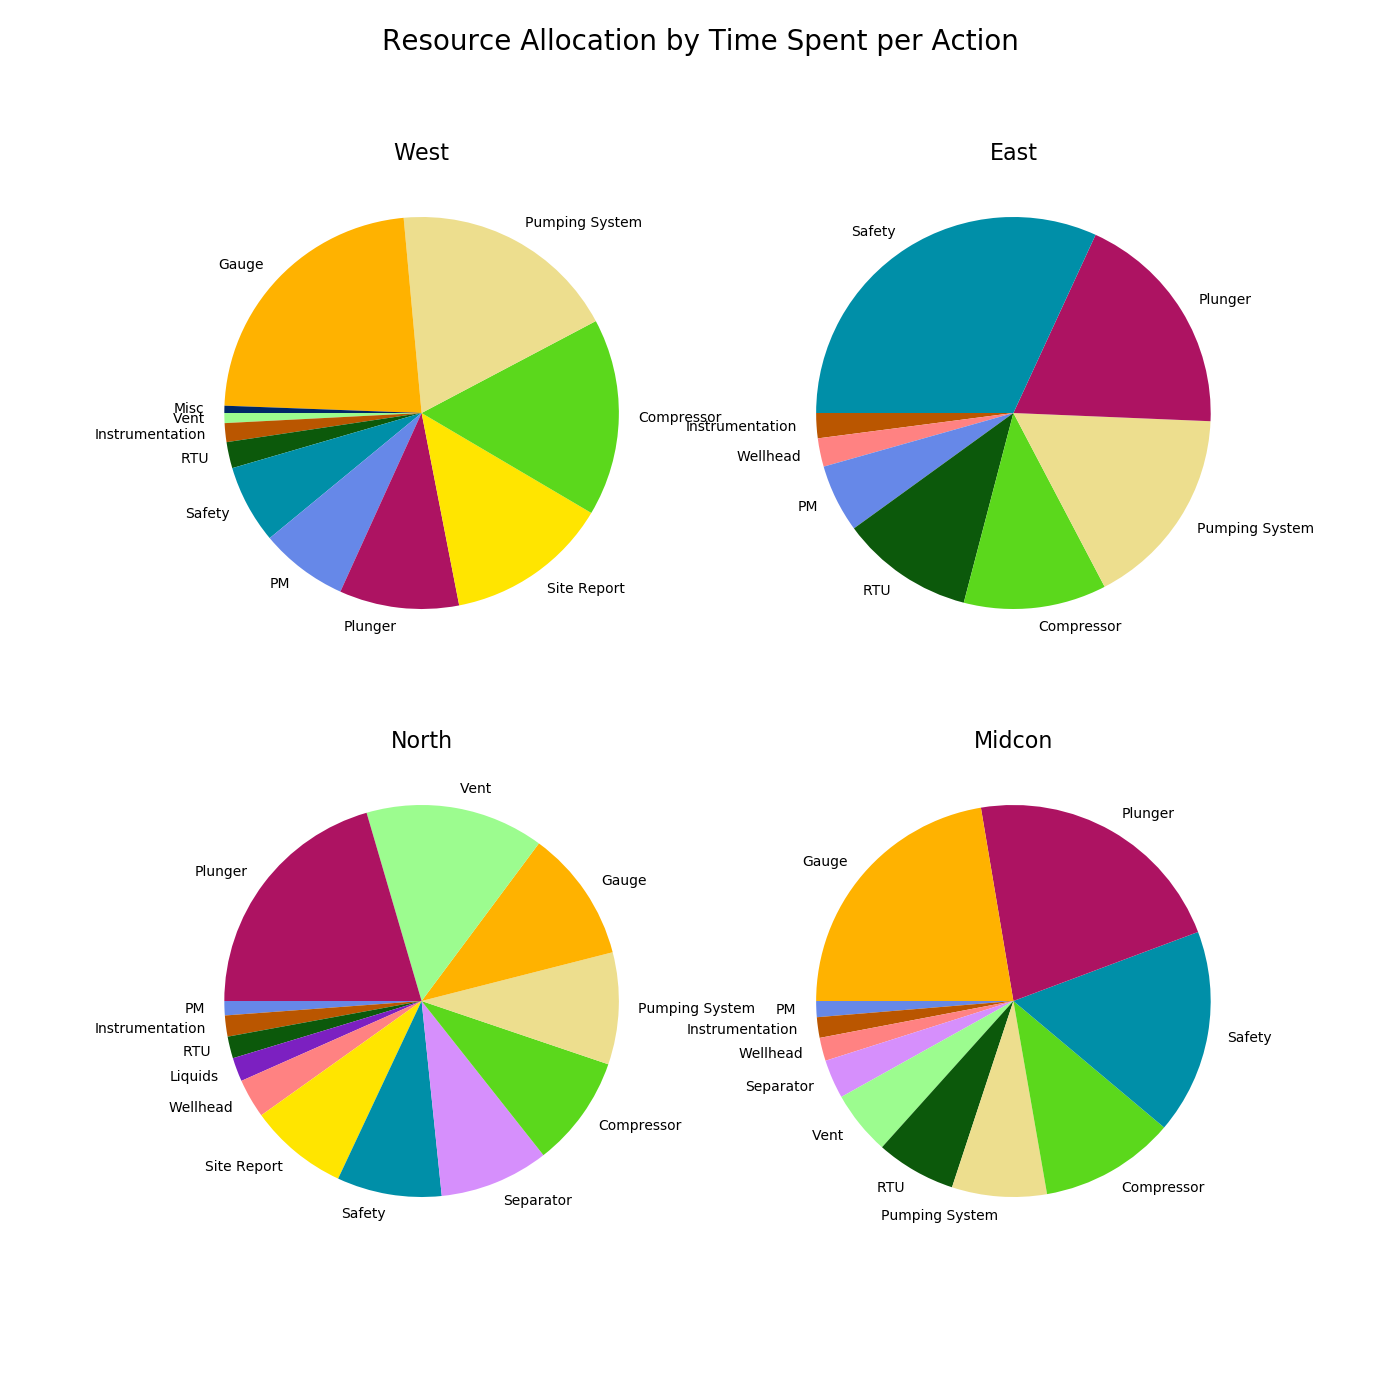
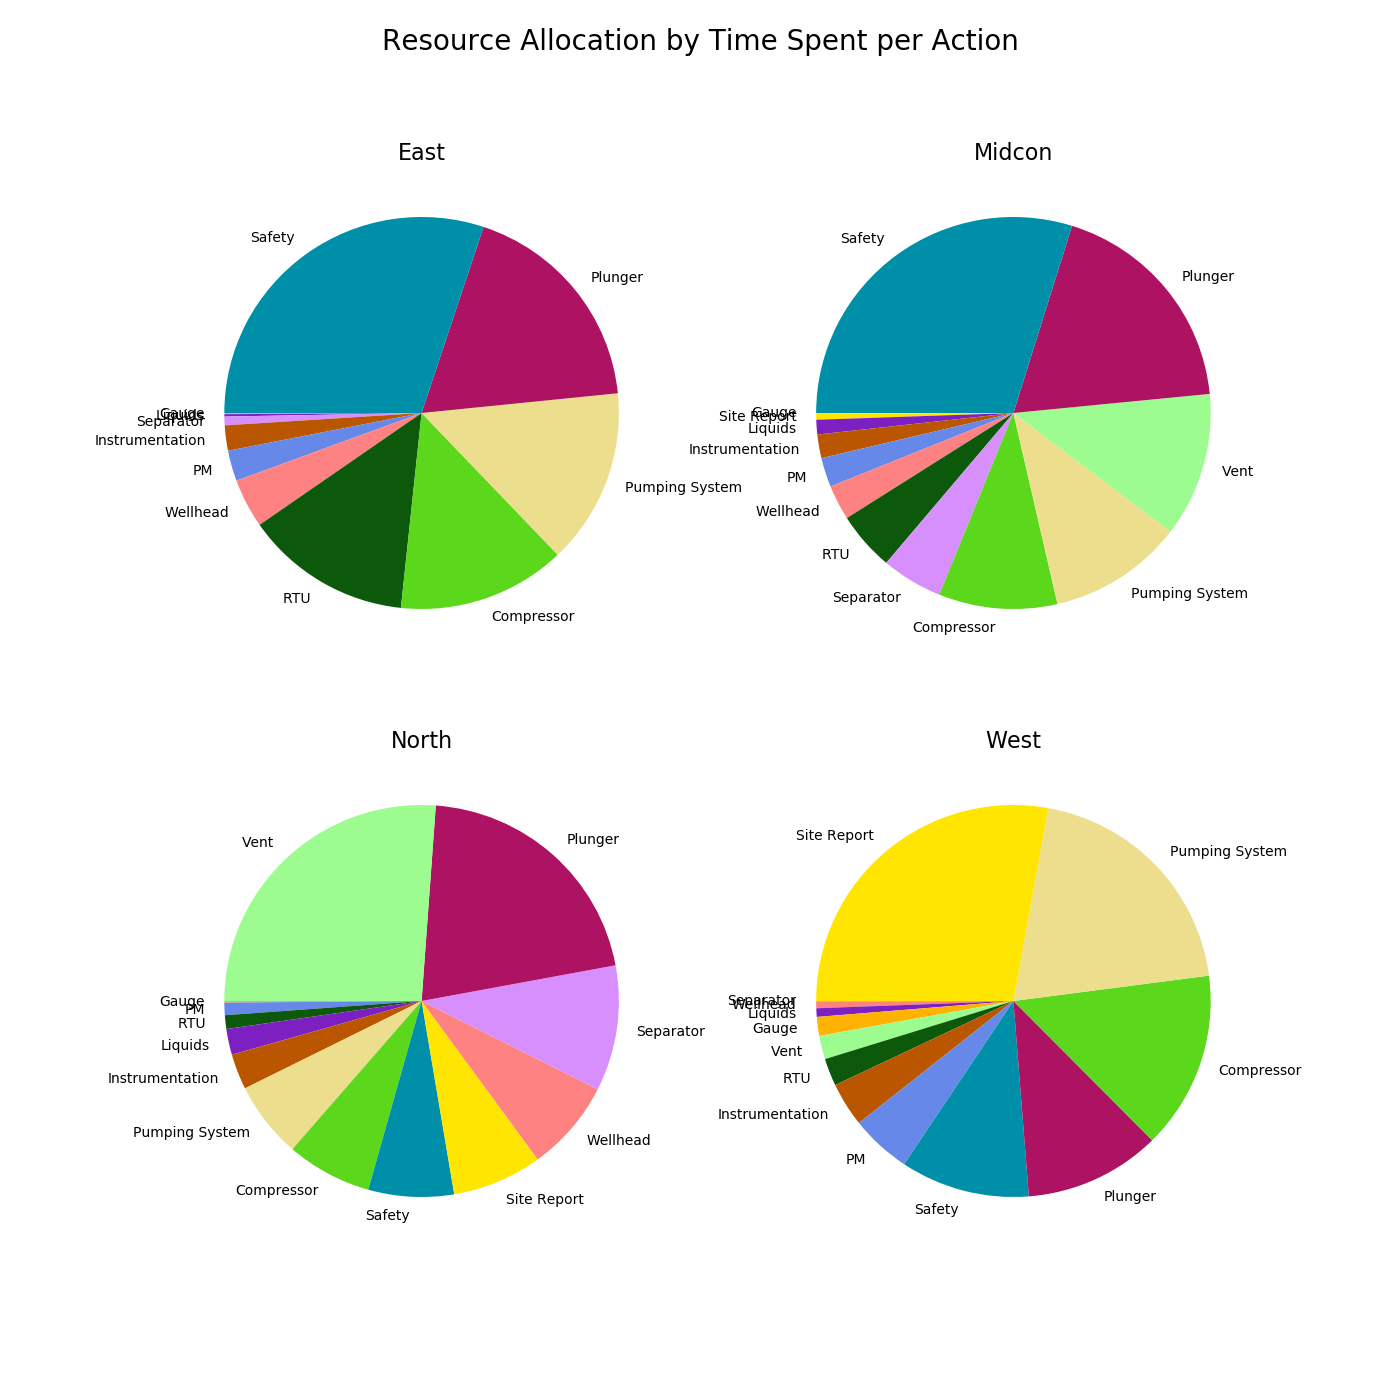
finalized

diff --git a/analyze.py b/analyze.py
@@ -6,6 +6,77 @@ import matplotlib.pyplot as plt
 from matplotlib import pylab
 
 
+def geotab_pull():
+	try:
+		connection = pyodbc.connect(r'Driver={SQL Server Native Client 11.0};'
+									r'Server=SQLDW-L48.BP.Com;'
+									r'Database=TeamOptimizationEngineering;'
+									r'trusted_connection=yes'
+									)
+	except pyodbc.Error:
+		print("Connection Error")
+		sys.exit()
+
+	cursor = connection.cursor()
+	SQLCommand = ("""
+		DROP TABLE IF EXISTS #tmp;
+
+		SELECT	[_id],
+				[TankCode],
+				[gaugeDate],
+				[liquidAmount],
+		      	ROW_NUMBER() OVER(PARTITION BY [tankcode] ORDER BY [gaugedate] DESC) AS [rk]
+		INTO 	[#TMP]
+		FROM    EDW.Enbase.GaugeData AS GD
+		WHERE   [liquidAmount] IS NOT NULL;
+	""")
+
+	cursor.execute(SQLCommand)
+
+	SQLCommand = ("""
+		DROP TABLE IF EXISTS #CarryOverIds;
+
+		SELECT 	[t1].[_id]
+		  INTO 	[#CarryOverIds]
+		  FROM  #TMP AS T
+		INNER JOIN #TMP AS T1
+				ON T1.RK = T.Rk - 1
+		       AND T.tankCode = T1.tankCode;
+	""")
+
+	cursor.execute(SQLCommand)
+
+	SQLCommand = ("""
+		SELECT	*
+			FROM [TeamOptimizationEngineering].[Reporting].[ActionListHistory] AL
+			JOIN (SELECT	LEFT(RIGHT(["id"], LEN(["id"]) - 1), LEN(["id"]) - 2) AS id
+							,CASE WHEN LEN(["avg_dur_hrs"]) >= 2
+								  THEN LEFT(RIGHT(["avg_dur_hrs"], LEN(["avg_dur_hrs"]) - 1), LEN(["avg_dur_hrs"]) - 2)
+								  ELSE ["avg_dur_hrs"] END AS agg_dur
+					FROM [TeamOperationsAnalytics].[dbo].[707_SQL]) Hrs
+			  ON LEFT(Hrs.id, 33) = LEFT(AL._id, 33)
+		WHERE [Action Date] >= '2017-03-30'
+			AND [Action Date] <= '2018-04-12'
+			AND _id NOT IN (SELECT *
+				  			FROM #CarryOverIds)
+			AND ISNUMERIC(agg_dur) = 1
+			AND agg_dur NOT LIKE '.'
+	""")
+
+	cursor.execute(SQLCommand)
+	results = cursor.fetchall()
+
+	df = pd.DataFrame.from_records(results)
+	connection.close()
+
+	try:
+		df.columns = pd.DataFrame(np.matrix(cursor.description))[0]
+	except:
+		df = None
+		print('Dataframe is empty')
+
+	return df.drop_duplicates()
+
 def action_pull():
 	try:
 		connection = pyodbc.connect(r'Driver={SQL Server Native Client 11.0};'
@@ -853,10 +924,11 @@ def pie(df):
 					  (df['Action Type - No count'] != 'rodPumpSpeedChange') &
 					  (df['Action Type - No count'] != 'warmBootRTU'), :]
 
-	df_short = impute(df_short)
+	# df_short = impute(df_short)
 
 	hours_df = df_short.groupby(['BusinessUnit', 'Action Type - No count'], as_index=False).sum()
 	hours_df.dropna(inplace=True)
+	print(hours_df)
 
 	color_list = ['#5bd81c', '#ffb200', '#ba5600', '#7c20c1', '#6688e8',
 				  '#ad1362', '#edde8e', '#0c590b', '#008fa8', '#d68ffc',
@@ -865,15 +937,15 @@ def pie(df):
 	for i, action in enumerate(list(hours_df['Action Type - No count'].unique()) + ['Misc']):
 		colors[action] = color_list[i]
 
-	bu_misc = {'west': 2.9e+05, 'east': 1.3e+05, 'north': 0, 'midcon': 2e+05}
+	# bu_misc = {'west': 2.9e+05, 'east': 1.3e+05, 'north': 0, 'midcon': 2e+05}
 	for bu, axis in zip(df['BusinessUnit'].unique(), [ax1, ax2, ax3, ax4]):
 		bu_df = hours_df.loc[hours_df['BusinessUnit'] == bu, :]
 		bu_df.sort_values('agg_dur', inplace=True)
-		misc = bu_df.loc[bu_df['agg_dur'] < bu_misc[bu.lower()], 'agg_dur'].sum()
-		if misc > 0:
-			bu_df = bu_df.append(pd.DataFrame([[bu, 'Misc', misc]],
-								 columns=bu_df.columns))
-		bu_df = bu_df.loc[bu_df['agg_dur'] >= bu_misc[bu.lower()], :]
+		# misc = bu_df.loc[bu_df['agg_dur'] < bu_misc[bu.lower()], 'agg_dur'].sum()
+		# if misc > 0:
+		# 	bu_df = bu_df.append(pd.DataFrame([[bu, 'Misc', misc]],
+		# 						 columns=bu_df.columns))
+		# bu_df = bu_df.loc[bu_df['agg_dur'] >= bu_misc[bu.lower()], :]
 
 		bu_colors = [colors[action] for action in bu_df['Action Type - No count'].unique()]
 
@@ -899,20 +971,26 @@ def impute(df):
 
 
 if __name__ == '__main__':
+	# geo_df = geotab_pull()
+	# geo_df.to_csv('data/geo_hours.csv')
+
 	# action_df = action_pull()
 	# action_df.to_csv('data/comment_action.csv')
 	a_df = pd.read_csv('data/comment_action.csv', encoding='ISO-8859-1')
-	hour_df = pd.read_csv('data/ws_hours.csv')
-	left_df = pd.merge(a_df, hour_df, left_on='_id', right_on='id', how='left')
-	wh_df = left_df[left_df['agg_dur'].notnull()]
+	# hour_df = pd.read_csv('data/geo_hours.csv', encoding='ISO-8859-1')
+	# left_df = pd.merge(a_df, hour_df, left_on='_id', right_on='id', how='left')
+	# wh_df = left_df[left_df['agg_dur'].notnull()]
 	# stacked_actions(wh_df, plot_type='count')
 	# stacked_actions(wh_df, plot_type='hours')
 	# venting(wh_df.loc[(wh_df['BusinessUnit'] == 'North') &
 	# 				  (wh_df['Action Type - No count'] == 'Vent'),
 	# 				  ['Action Date', 'agg_dur']])
-	left_df['Action Date'] = pd.to_datetime(left_df['Action Date'])
-	pie(left_df.loc[(left_df['Action Date'] >= '2017-12-01') &
-				  	(left_df['Action Date'] < '2018-05-01'),
+	# left_df['Action Date'] = pd.to_datetime(left_df['Action Date'])
+
+	geoh_df = pd.read_csv('data/geo_hours.csv', encoding='ISO-8859-1')
+	geoh_df.loc[:, 'agg_dur'] = geoh_df.loc[:, 'agg_dur'].apply(lambda x: round(float(x), 2))
+	pie(geoh_df.loc[(geoh_df['Action Date'] >= '2017-12-01') &
+				  	(geoh_df['Action Date'] < '2018-05-01'),
 				  	['Action Type - No count', 'Action Type 1',
 					 'CommentAction', 'agg_dur', 'BusinessUnit']])
 
